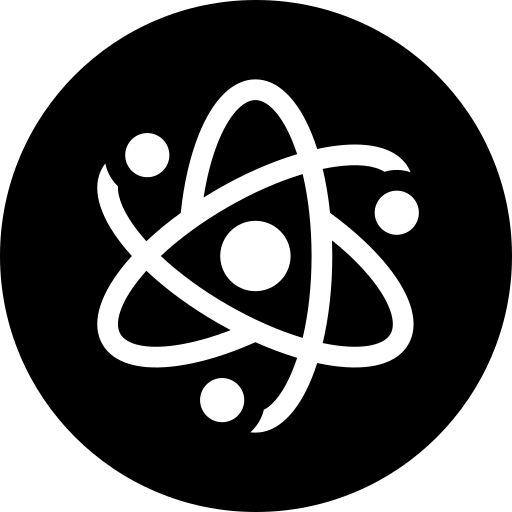
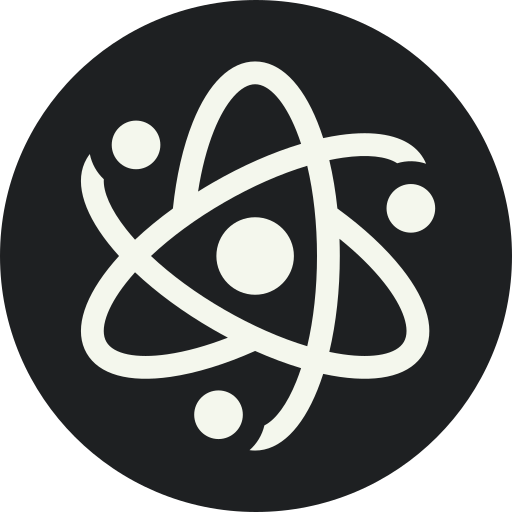
updated ui palette

diff --git a/frontend/src/components/element/Element.jsx b/frontend/src/components/element/Element.jsx
@@ -7,57 +7,61 @@ import { useParams, useNavigate } from "react-router-dom";
 export default function Element() {
     const navigate=useNavigate();
     const number=Number(useParams().number);
-    const prevElement=number>1 ? data.elements[number-2] : "";
+    const prevElement=data.elements[number-2];
     const element=data.elements[number-1];
-    const nextElement=number<118 ? data.elements[number] : "";
+    const nextElement=data.elements[number];
     const [width, setWidth]=useState(window.innerWidth);
 
     useEffect(()=>{
-        window.addEventListener("resize", ()=>setWidth(window.innerWidth));
-        return ()=>{
-            window.removeEventListener("resize", ()=>setWidth(window.innerWidth));
-        }
-    })
+        const handleResize=()=>setWidth(window.innerWidth);
+        window.addEventListener("resize", handleResize);
+        return ()=>window.removeEventListener("resize", handleResize);
+    }, []);
 
     return (
         <div className="element">
             <div className="element-header">
-                <button onClick={()=>navigate(`/element/${number-1}`)}>
-                    <img src="/prev.png"/>
-                    {width<600 ? prevElement.symbol : prevElement.name}
-                </button>
+                {prevElement ? 
+                    <button onClick={()=>navigate(`/element/${number-1}`)}>
+                        <img className="prev" src="/prev.png" alt="previous"/>
+                        {width<600 ? prevElement.symbol : prevElement.name}
+                    </button>
+                : <div/>}
                 <p className="element-name">{element.name} ({element.symbol})</p>
-                <button onClick={()=>navigate(`/element/${number+1}`)}>
-                    {width<600 ? nextElement.symbol : nextElement.name}
-                    <img src="/next.png"/>
-                </button>
+                {nextElement ? 
+                    <button onClick={()=>navigate(`/element/${number+1}`)}>
+                        {width<600 ? nextElement.symbol : nextElement.name}
+                        <img className="next" src="/next.png" alt="next"/>
+                    </button>
+                : <div/>}
             </div>
         <div className="element-container">
             <model-viewer
                 alt={element.name}
                 src={element.bohr_model_3d}
                 camera-controls
+                ar
                 auto-rotate
                 shadow-intensity="1"
                 exposure="1"
             ></model-viewer>
 
-            <div className="info-panel">
+            <div className="element-info-panel">
                 <div className="element-sections">
-                    <div className="info-card">
+                    <div className="element-info-card">
                         <h2>General</h2>
                         <p>Number: {element.number}</p>
                         <p>Category: {element.category}</p>
                         <p>Phase: {element.phase}</p>
                         <p>Block: {element.block}</p>
                     </div>
-                    <div className="info-card">
+                    <div className="element-info-card">
                         <h2>Discovery</h2>
                         <p>Discovered by: {element.discovered_by}</p>
                         <p>Named by: {element.named_by}</p>
                         <a href={element.source} target="_blank" rel="noreferrer">Wiki</a>
                     </div>
-                    <div className="info-card">
+                    <div className="element-info-card">
                         <h2>Structure</h2>
                         <p>Atomic Mass: {element.atomic_mass}</p>
                         <p>Boiling Point: {element.boil}</p>
@@ -65,7 +69,7 @@ export default function Element() {
                         <p>Density: {element.density}</p>
                         <p>Molar Heat: {element.molar_heat}</p>
                     </div>
-                    <div className="info-card">
+                    <div className="element-info-card">
                         <h2>Electron Details</h2>
                         <p>Electron Affinity: {element.electron_affinity}</p>
                         <p>Electronegativity: {element.electronegativity_pauling}</p>

diff --git a/frontend/src/components/element/Element.css b/frontend/src/components/element/Element.css
@@ -24,9 +24,17 @@
     gap: 4px;
 }
 
-.element-header img{
+.prev, .next{
     width: 24px;
     aspect-ratio: 1;
+}
+
+.app.night .prev{
+    content: url("/prev-white.png");
+}
+
+.app.night .next{
+    content: url("/next-white.png");
 }
 
 .element-container {
@@ -35,7 +43,7 @@
     padding: 20px;
     max-width: 1600px;
     flex-wrap: wrap;
-    height: calc(100vh - 79px - 40px - 40px);
+    height: calc(100vh - 159px);
 }
 
 .element-name {
@@ -69,13 +77,13 @@ model-viewer {
     object-fit: contain;
 }
   
-.info-panel {
+.element-info-panel {
     flex: 2;
     display: flex;
     flex-direction: column;
     gap: 20px;
     overflow-y: auto;
-    max-height: calc(100vh - 79px - 40px - 56px);
+    max-height: calc(100vh - 175px);
 }
   
 .element-sections {
@@ -84,18 +92,18 @@ model-viewer {
     gap: 20px;
 }
   
-.info-card {
+.element-info-card {
     backdrop-filter: var(--blur);
     padding: 20px;
     border-radius: 20px;
     border: 1px solid var(--text-color);
 }
   
-.info-card h2 {
+.element-info-card h2 {
     margin-bottom: 20px;
 }
   
-.info-card p {
+.element-info-card p {
     font-size: 16px;
     line-height: 1.5;
 }
@@ -118,7 +126,7 @@ model-viewer {
         outline: none;
     }
   
-    .info-panel {
+    .element-info-panel {
         max-height: none;
     }
 }
@@ -128,7 +136,7 @@ model-viewer {
         height: auto;
     }
 
-    .info-panel {
+    .element-info-panel {
         height: auto;
         max-height: none;
         overflow-y: visible;
@@ -138,7 +146,7 @@ model-viewer {
         grid-template-columns: 1fr;
     }
 
-    .info-card {
+    .element-info-card {
         padding: 20px;
     }
 

diff --git a/frontend/src/components/table/Table.css b/frontend/src/components/table/Table.css
@@ -44,14 +44,6 @@
     cursor: pointer;
 }
 
-.table-element.hover.lanthanide{
-    background-color: red;
-}
-
-.table-element.hover.actinide{
-    background-color: green;
-}
-
 .table-element-number, .table-f-number{
     font-size: 10px;
     position: absolute;
@@ -95,19 +87,19 @@
 }
   
 .table-element.s::before {
-    background-color: red;
+    background-color: var(--red);
 }
 
 .table-element.p::before {
-    background-color: green;
+    background-color: var(--green);
 }
 
 .table-element.d::before {
-    background-color: blue;
+    background-color: var(--blue);
 }
 
 .table-element.f::before {
-    background-color: yellow;
+    background-color: var(--yellow);
 }  
 
 .table-element:hover::before {

diff --git a/frontend/src/App.css b/frontend/src/App.css
@@ -1,18 +1,17 @@
 .app.day {
-    --bg-color: white;
-    --text-color: black;
+    --bg-color: #F4F7ED;
+    --text-color: #1E2022;
+    --red: #C94C4C;
+    --blue: #3A7CA5;
+    --green: #6A994E;
+    --yellow: #E3B505; 
 }
   
 .app.night {
-    --bg-color: black;
-    --text-color: white;
+    --bg-color: #1E2022;
+    --text-color: #F4F7ED;
+    --red: #FF6B6B;
+    --blue: #4D96FF;
+    --green: #6EEB83;
+    --yellow: #F2C94C; 
 }
-
-.app.night img{
-    filter: invert();
-}
-  
-.app {
-    transition: background-color 0.3s, color 0.3s;
-}
-  

diff --git a/frontend/src/components/loader/Loader.jsx b/frontend/src/components/loader/Loader.jsx
@@ -18,6 +18,7 @@ export default function Loader(){
                 src="/logo.png"
                 alt="logo"
                 layoutId="logo"
+                className="logo"
                 initial={{ opacity: 0, y: 50 }}
                 animate={{ opacity: 1, y: 0, rotate: [0, 360] }}
                 transition={{ duration: 1 }}

diff --git a/frontend/src/components/topbar/Topbar.css b/frontend/src/components/topbar/Topbar.css
@@ -23,3 +23,7 @@
     aspect-ratio: 1;
     cursor: pointer;
 }
+
+.app.night .logo{
+    content: url("/logo-white.png");
+}
